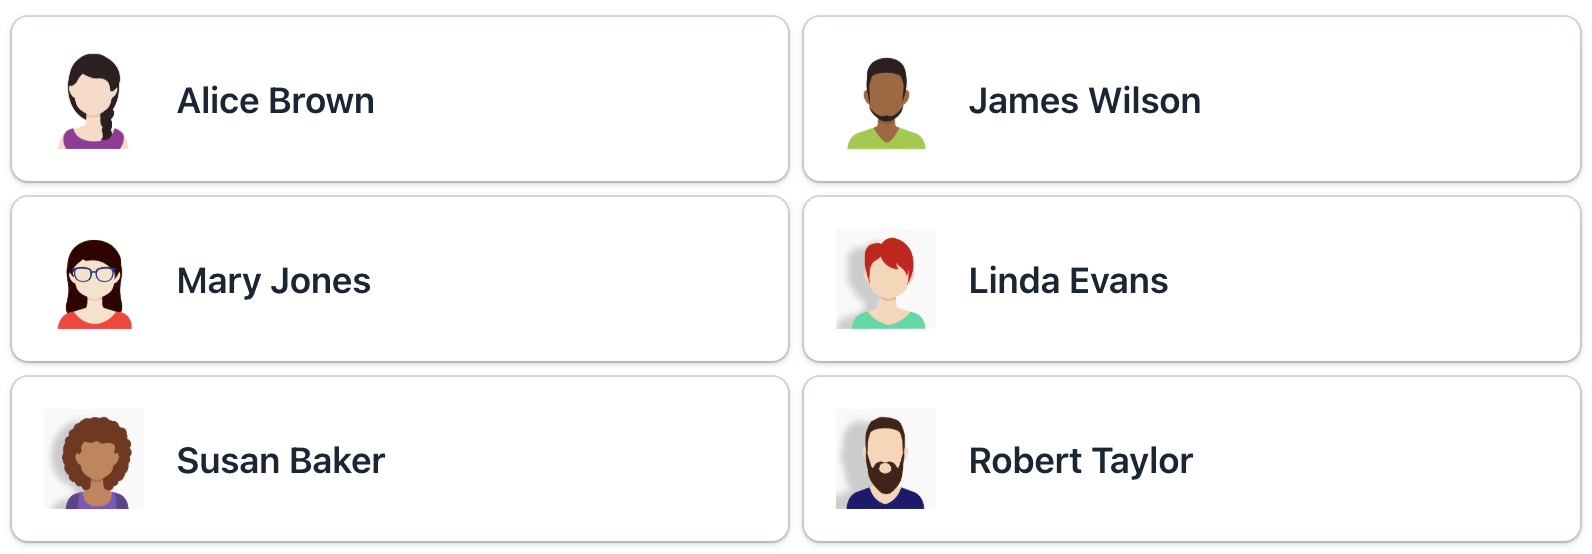
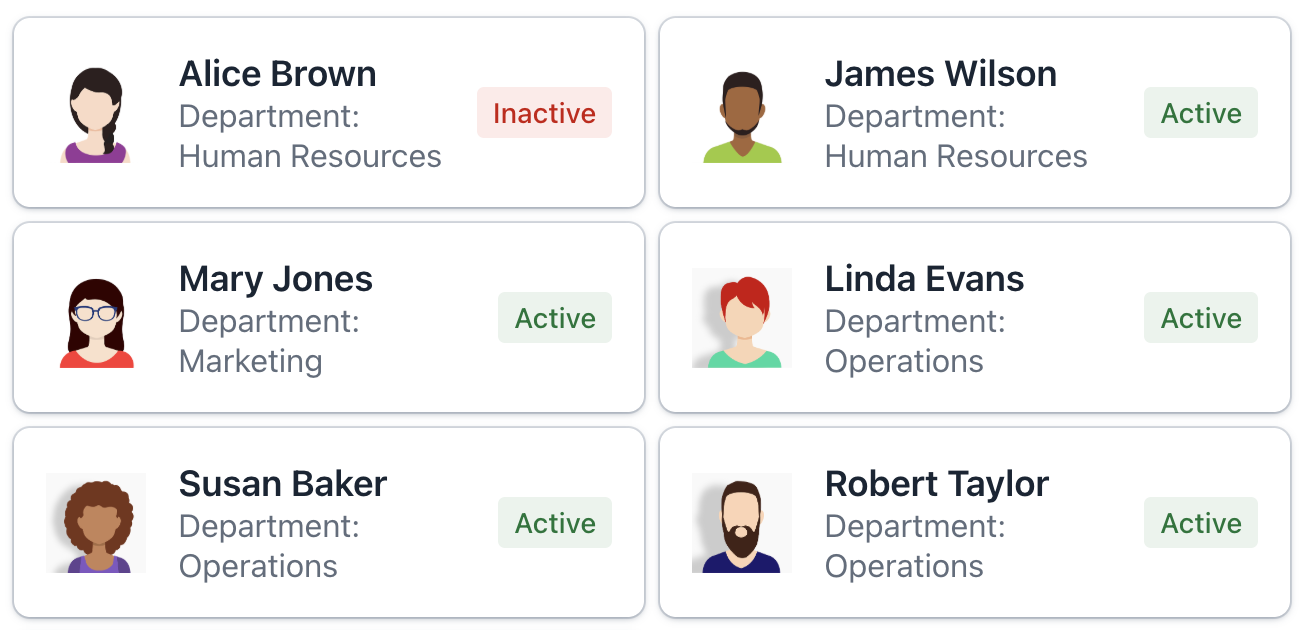
Improve examples for GridLayout #1074

diff --git a/content/modules/flow-ui/examples/onboarding/src/main/java/com/company/onboarding/view/layout/gridlayout/CardFragment.java b/content/modules/flow-ui/examples/onboarding/src/main/java/com/company/onboarding/view/layout/gridlayout/CardFragment.java
@@ -1,43 +1,29 @@
 package com.company.onboarding.view.layout.gridlayout;
 
-
 import com.company.onboarding.entity.User;
-import com.company.onboarding.view.main.MainView;
+import com.vaadin.flow.component.AttachEvent;
 import com.vaadin.flow.component.card.Card;
 import com.vaadin.flow.component.card.CardVariant;
-import com.vaadin.flow.component.checkbox.Checkbox;
 import com.vaadin.flow.component.html.Image;
 import com.vaadin.flow.component.html.Span;
-import com.vaadin.flow.data.renderer.ComponentRenderer;
-import com.vaadin.flow.router.Route;
+import com.vaadin.flow.component.orderedlayout.VerticalLayout;
 import com.vaadin.flow.server.streams.DownloadHandler;
 import com.vaadin.flow.server.streams.DownloadResponse;
 import com.vaadin.flow.server.streams.InputStreamDownloadHandler;
 import io.jmix.core.*;
 import io.jmix.core.metamodel.model.MetaClass;
-import io.jmix.flowui.UiComponents;
-import io.jmix.flowui.component.gridlayout.GridLayout;
-import io.jmix.flowui.view.*;
+import io.jmix.flowui.fragment.FragmentDescriptor;
+import io.jmix.flowui.fragmentrenderer.FragmentRenderer;
+import io.jmix.flowui.fragmentrenderer.RendererItemContainer;
 import org.springframework.beans.factory.annotation.Autowired;
 
 import java.io.InputStream;
-import java.util.Random;
 
-@Route(value = "grid-layout-view", layout = MainView.class)
-@ViewController(id = "GridLayoutView")
-@ViewDescriptor(path = "grid-layout-view.xml")
-public class GridLayoutView extends StandardView {
-    private static final Random random = new Random();
-    // tag::gridLayout[]
-    @ViewComponent
-    private GridLayout<Object> gridLayout;
+// tag::cardFragment[]
+@FragmentDescriptor("card-fragment.xml")
+@RendererItemContainer("userDc")
+public class CardFragment extends FragmentRenderer<VerticalLayout, User> {
 
-    // end::gridLayout[]
-    // tag::uiComponents[]
-    @Autowired
-    private UiComponents uiComponents;
-
-    // end::uiComponents[]
     @Autowired
     private FileStorageLocator fileStorageLocator;
     @Autowired
@@ -45,49 +31,25 @@ public class GridLayoutView extends StandardView {
     @Autowired
     private MessageTools messageTools;
 
-    // tag::add-example[]
-    @Subscribe
-    public void onInit(final InitEvent event) {
-        Checkbox checkbox = uiComponents.create(Checkbox.class);
-        checkbox.setLabel("I verify that all information is accurate");
-        checkbox.setValue(false);
-        gridLayout.add(checkbox);
-    }
-    // end::add-example[]
-
-    @Install(to = "gridLayoutUsers", subject = "itemLabelGenerator")
-    private String gridLayoutUsersItemLabelGenerator(final User item) {
-        return item.getFirstName() + " " + item.getLastName();
+    @Override
+    protected void onAttach(AttachEvent attachEvent) {
+        super.onAttach(attachEvent);
+        initLayout();
     }
 
-    // tag::renderer[]
-    @Supply(to = "gridLtUsers", subject = "renderer")
-    private ComponentRenderer<Card, User> gridLtUsersRenderer() { // <1>
-        return new ComponentRenderer<>(this::createCard, this::initCard);
-    }
-
-    // end::renderer[]
-
-    // tag::renderer[]
-    private Card createCard() { // <2>
+    private void initLayout() {
         Card card = uiComponents.create(Card.class);
         card.setWidthFull();
         card.addThemeVariants(CardVariant.LUMO_OUTLINED, CardVariant.LUMO_ELEVATED);
-        return card;
+
+        card.setHeaderPrefix(createAvatar(getItem()));
+        card.setTitle(getItem().getFirstName() + " " + getItem().getLastName());
+        card.setSubtitle(createSubtitle(getItem()));
+        card.setHeaderSuffix(createHeaderSuffix(getItem()));
+        getContent().add(card);
     }
 
-    // end::renderer[]
-    // tag::renderer[]
-    private void initCard(Card card, User user) { // <3>
-        card.setHeaderPrefix(createAvatar(user));
-        card.setTitle(user.getFirstName() + " " + user.getLastName());
-        card.setSubtitle(createSubtitle(user));
-        card.setHeaderSuffix(createHeaderSuffix(user));
-    }
-
-    // end::renderer[]
-// tag::renderer[]
-    private Image createAvatar(User user) { // <4>
+    private Image createAvatar(User user) {
         Image image = uiComponents.create(Image.class);
         FileRef fileRef = user.getPicture();
         if (fileRef != null) {
@@ -102,8 +64,6 @@ public class GridLayoutView extends StandardView {
         return image;
     }
 
-    // end::renderer[]
-    // tag::renderer[]
     private Span createSubtitle(User user) {
         Span span = uiComponents.create(Span.class);
         span.setText("%s: %s".formatted(
@@ -114,16 +74,11 @@ public class GridLayoutView extends StandardView {
         return span;
     }
 
-    // end::renderer[]
-    // tag::renderer[]
     private String getPropertyCaption(User user, String property) {
         MetaClass metaClass = metadata.getClass(user);
         return messageTools.getPropertyCaption(metaClass, property);
     }
 
-    // end::renderer[]
-
-    // tag::renderer[]
     private Span createHeaderSuffix(User user) {
         Span span = uiComponents.create(Span.class);
         if (user.getActive()) {
@@ -136,5 +91,5 @@ public class GridLayoutView extends StandardView {
         }
         return span;
     }
-    // end::renderer[]
 }
+// end::cardFragment[]
